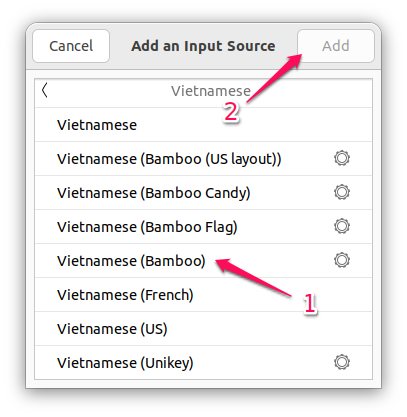
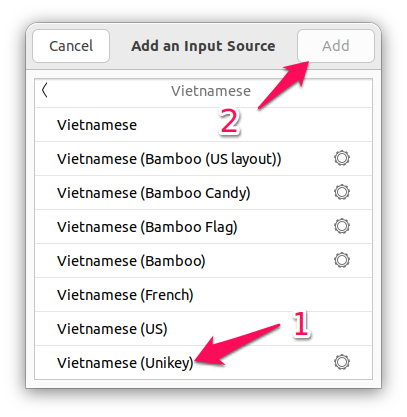
-

Changed region(s): [[0.4717, 0.6235, 0.7961, 0.9041], [0.5897, 0.1247, 0.7666, 0.2806], [0.5307, 0.2494, 0.5897, 0.3429]]

diff --git a/READMW-Ubuntu.md b/READMW-Ubuntu.md
@@ -6,14 +6,38 @@
 
 ## II. Cài đặt drivers
 
+```bash
+sudo ubuntu-drivers autoinstall
+sudo apt update
+sudo apt upgrade
+```
+
+### Cài đặt NVIDIA Driver
+
+-   [CUDA Toolkit](https://developer.nvidia.com/cuda-downloads)
+-   [NVIDIA cuDNN](https://developer.nvidia.com/rdp/cudnn-archive)
+
 ## III. Cài đặt phần mềm
 
-#### 1. Cài đặt các phần mềm .deb
+### 1. Cài đặt các phần mềm thường dùng và trình biên dịch
+
+-   [FFMPEG Thumbnailer](https://apps.kde.org/ffmpegthumbs/)
+
+```bash
+sudo apt install ffmpegthumbnailer -y
+sudo apt update
+sudo rm /usr/share/thumbnailers/totem.thumbnailer
+```
 
 -   [Google Chrome](https://www.google.com/intl/vi/chrome/)
 -   [Microsoft Edge](https://www.microsoft.com/vi-vn/edge/download)
-- [WPS Office](https://www.wps.com/download/)
+-   [WPS Office](https://www.wps.com/download/)
 -   [Vs Code](https://code.visualstudio.com/Download)
+
+```bash
+wget -qO- https://raw.githubusercontent.com/cra0zy/code-nautilus/master/install.sh | bash
+```
+
 -   [Git](https://git-scm.com/download/linux)
 
 ```bash
@@ -29,22 +53,74 @@ git config --global user.email vuxuanhoang000@gmail.com
 sudo apt update && sudo apt upgrade
 sudo apt install telegram-desktop -y
 ```
-- [OBS Studio](https://obsproject.com/download#linux)
+
+-   [OBS Studio](https://obsproject.com/download#linux)
+
 ```bash
 sudo add-apt-repository ppa:obsproject/obs-studio
 sudo apt update
 sudo apt install ffmpeg obs-studio -y
 ```
-- [VLC Media Player](https://www.videolan.org/vlc/download-ubuntu.html)
+
+-   [VLC Media Player](https://www.videolan.org/vlc/download-ubuntu.html)
+
 ```bash
 sudo snap install vlc
 ```
-#### 2. Cài bộ gõ tiếng việt Ibus-Bamboo
+
+-   [GCC & G++](https://sourceforge.net/projects/mingw-w64/files/)
 
 ```bash
-sudo add-apt-repository ppa:bamboo-engine/ibus-bamboo
-sudo apt-get update
-sudo apt-get install ibus ibus-bamboo -y
+sudo apt install build-essential -y
+```
+
+-   [Java](https://www.oracle.com/vn/java/technologies/downloads/)
+
+```bash
+sudo apt install openjdk-17-jre-headless -y
+sudo apt install openjdk-17-jdk-headless -y
+java -version
+javac -version
+```
+
+-   [Python](https://www.python.org/downloads/)
+
+```bash
+sudo apt install python3 -y
+sudo apt install python3-pip -y
+sudo apt install python3-venv -y
+```
+
+-   [NodeJs](https://nodejs.org/)
+
+```bash
+sudo apt install curl -y
+curl -sL https://deb.nodesource.com/setup_18.x | sudo -E bash -
+sudo apt update
+sudo apt install nodejs -y
+node --version
+npm --version
+```
+
+-   [MySql]()
+
+```bash
+sudo apt install mysql-server -y
+mysql --version
+sudo mysql_secure_installation
+sudo mysql -u root
+```
+
+```sql
+show databases;
+create database first-mysql-database;
+show database;
+```
+
+### 2. Cài bộ gõ tiếng việt Ibus-Unikey
+
+```bash
+sudo apt-get install ibus-unikey -y
 sudo reboot
 ```
 
@@ -56,11 +132,11 @@ sudo reboot
 
 ![2](imgs/cai-go-tieng-viet-ubuntu-2.webp)
 
--   Chọn vào mục `Vietnamese (Bamboo)` rồi nhấn `Add` để thêm bộ gõ tiếng Việt cho Ubuntu.
+-   Chọn vào mục `Vietnamese (Unikey)` rồi nhấn `Add` để thêm bộ gõ tiếng Việt cho Ubuntu.
 
 ![3](imgs/cai-go-tieng-viet-ubuntu-3.webp)
 
--   Nếu bạn không tìm thấy `Vietnamese (Bamboo)` trong danh sách thì hãy khởi động lại máy tính và thử lại.
+-   Nếu bạn không tìm thấy `Vietnamese (Unikey)` trong danh sách thì hãy khởi động lại máy tính và thử lại.
 
 -   Tiếp theo nhấn chọn vào `Show Applications` và chạy ứng dụng `Language Support`.
 
@@ -70,76 +146,4 @@ sudo reboot
 
 ![5](imgs/cai-go-tieng-viet-ubuntu-5.webp)
 
--   Bây giờ ở trên góc trên cùng bên phải có biểu tượng để chuyển giữa `en` và `vi` thì lúc này ta đã cài `unikey` cho Ubuntu thành công. Bước tiếp theo bạn chỉ cần thay đổi bộ gõ sang `Vietnamese (Bamboo)` để sử dụng.
-
-#### 4. Cài đặt Java
-
--   Cập nhật chỉ mục gói:
-
-```bash
-sudo apt update
-```
-
--   Tiếp theo, kiểm tra xem Java đã được cài đặt chưa:
-
-```bash
-java -version
-```
-
--   Nếu Java hiện chưa được cài đặt, bạn sẽ thấy đầu ra sau:
-
-```
-Command 'java' not found, but can be installed with:
-sudo apt install openjdk-11-jre-headless  # version 11.0.18+10-0ubuntu1~22.04, or
-sudo apt install default-jre              # version 2:1.11-72build2
-sudo apt install openjdk-17-jre-headless  # version 17.0.6+10-0ubuntu1~22.04
-sudo apt install openjdk-18-jre-headless  # version 18.0.2+9-2~22.04
-sudo apt install openjdk-19-jre-headless  # version 19.0.2+7-0ubuntu3~22.04
-sudo apt install openjdk-8-jre-headless   # version 8u362-ga-0ubuntu1~22.04
-```
-
--   Thực hiện lệnh sau để cài đặt Java Runtime Environment (JRE) mặc định, sẽ cài đặt JRE từ OpenJDK 11:
-
-```bash
-sudo apt install openjdk-17-jre-headless -y
-```
-
--   JRE sẽ cho phép bạn chạy hầu hết các phần mềm Java.
--   Xác minh cài đặt với:
-
-```bash
-java -version
-```
-
--   Bạn sẽ thấy đầu ra tương tự như sau:
-
-```bash
-openjdk version "17.0.6" 2023-01-17
-OpenJDK Runtime Environment (build 17.0.6+10-Ubuntu-0ubuntu122.04)
-OpenJDK 64-Bit Server VM (build 17.0.6+10-Ubuntu-0ubuntu122.04, mixed mode, sharing)
-```
-
--   Bạn có thể cần Bộ công cụ phát triển Java (JDK) ngoài JRE để biên dịch và chạy một số phần mềm dựa trên Java cụ thể. Để cài đặt JDK, hãy thực hiện lệnh sau, lệnh này cũng sẽ cài đặt JRE:
-
-```bash
-sudo apt install openjdk-17-jdk-headless -y
-```
-
--   Xác minh rằng JDK đã được cài đặt bằng cách kiểm tra phiên bản của javac, trình biên dịch Java:
-
-```bash
-javac -version
-```
-
--   Bạn sẽ thấy đầu ra sau:
-
-```bash
-javac 17.0.6
-```
-
-#### 5. Cài đặt Python
-```bash
-sudo apt install python3 -y
-sudo apt install python3-pip -y
-sudo apt install python3-venv -y
-```
+-   Bây giờ ở trên góc trên cùng bên phải có biểu tượng để chuyển giữa `en` và `vi` thì lúc này ta đã cài `unikey` cho Ubuntu thành công. Bước tiếp theo bạn chỉ cần thay đổi bộ gõ sang `Vietnamese (Unikey)` để sử dụng.
